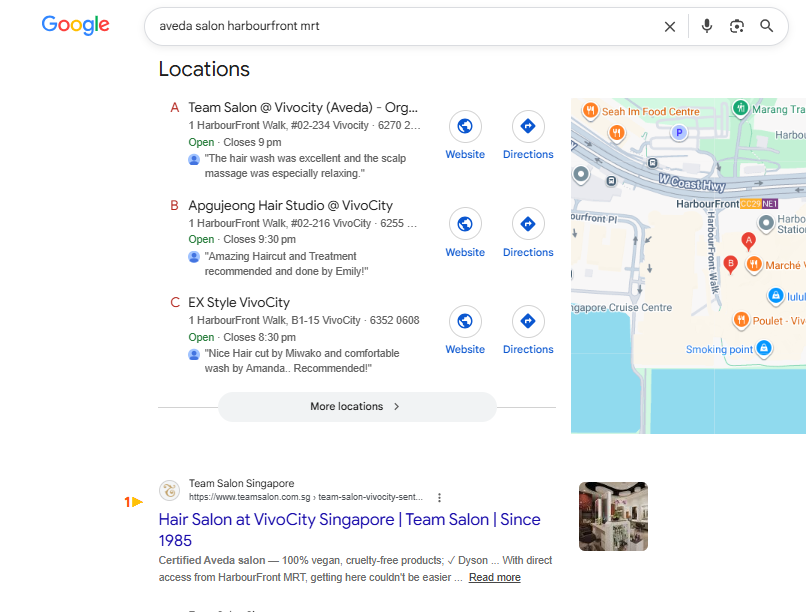
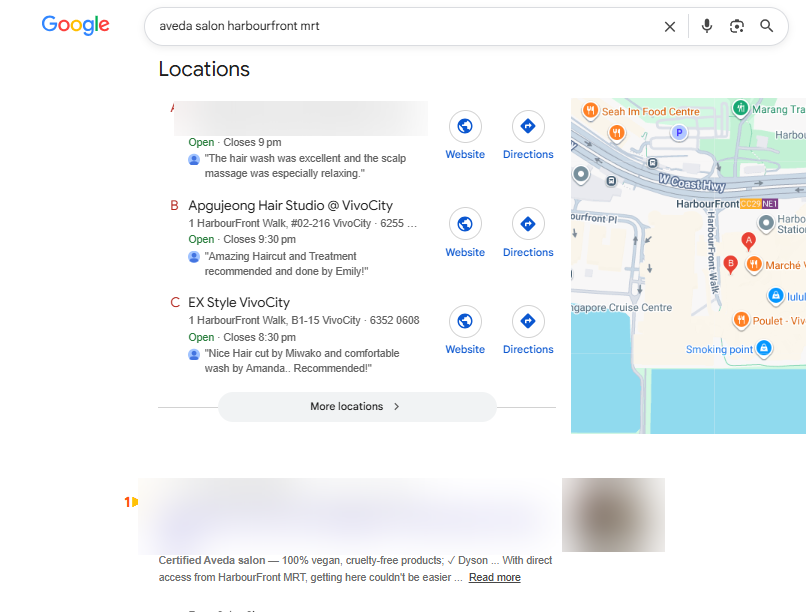
fix(case-studies): anonymize hair salon case study at client's request
Removes the business name and domain from all copy (FAQ answers, body
prose, at-a-glance table) and adds the standard "name withheld" disclosure
line, matching the aesthetic clinic case study precedent. Blurs the
business name, exact address, and phone number out of all 6 ranking
screenshots while keeping the keyword, rank position, and mall/outlet
context intact.

Changed region(s): [[0.1861, 0.7761, 0.8375, 0.9003], [0.2171, 0.1552, 0.5273, 0.2173]]

diff --git a/app/case-studies/hair-salon-seo-singapore/page.tsx b/app/case-studies/hair-salon-seo-singapore/page.tsx
@@ -38,19 +38,19 @@ const articleSchema = {
 const FAQS = [
   {
     q: "How long does SEO take for a hair salon in Singapore?",
-    a: "Team Salon's engagement began in May 2026, and the results above were measured across July and August — roughly three to four months in. In general, expect early Google Business Profile and long-tail movement within 6–10 weeks, and competitive service keywords to build over three to six months. Salons tend to see returns faster than most categories because local search intent converts quickly.",
+    a: "This salon's engagement began in May 2026, and the results above were measured across July and August — roughly three to four months in. In general, expect early Google Business Profile and long-tail movement within 6–10 weeks, and competitive service keywords to build over three to six months. Salons tend to see returns faster than most categories because local search intent converts quickly.",
   },
   {
     q: "Do I need SEO if my salon already gets bookings from Instagram?",
-    a: "They solve different problems. Social builds awareness among people who weren't looking for you. Search captures people who are actively looking right now and choosing between you and three competitors. For Team Salon, organic search drove 71.75% of all website users — a volume of active, high-intent demand that social was not reaching.",
+    a: "They solve different problems. Social builds awareness among people who weren't looking for you. Search captures people who are actively looking right now and choosing between you and three competitors. For this salon, organic search drove 71.75% of all website users — a volume of active, high-intent demand that social was not reaching.",
   },
   {
     q: "Can you manage more than one salon outlet?",
-    a: "Yes. Team Salon runs both outlets through a single Epicware dashboard, each with its own keyword strategy, Google Business Profile workflow, posting schedule and review pipeline. We currently manage 50+ outlet profiles across five markets.",
+    a: "Yes. This client runs both outlets through a single Epicware dashboard, each with its own keyword strategy, Google Business Profile workflow, posting schedule and review pipeline. We currently manage 50+ outlet profiles across five markets.",
   },
   {
     q: "Can you get my salon recommended by ChatGPT and AI Overviews?",
-    a: "It's a dedicated workstream, not an add-on. It requires AI-crawlable site architecture, correct structured data, content written the way language models extract answers, and consistent entity signals and brand mentions across the sources those models draw from. Team Salon's AI assistant traffic grew 320%, with engagement events from that channel up 633%.",
+    a: "It's a dedicated workstream, not an add-on. It requires AI-crawlable site architecture, correct structured data, content written the way language models extract answers, and consistent entity signals and brand mentions across the sources those models draw from. This client's AI assistant traffic grew 320%, with engagement events from that channel up 633%.",
   },
   {
     q: "Can negative Google reviews actually be removed?",
@@ -80,7 +80,7 @@ const HERO_STATS = [
 ];
 
 const AT_A_GLANCE: { label: string; value: string }[] = [
-  { label: "Client", value: "Team Salon — teamsalon.com.sg" },
+  { label: "Client", value: "Name withheld at client's request" },
   { label: "Industry", value: "Hair & Beauty — organic / Aveda salon" },
   { label: "Locations", value: "2 outlets — VivoCity and Jem" },
   { label: "Engagement", value: "May 2026 – ongoing" },
@@ -117,7 +117,7 @@ const KEYWORD_RANKINGS: { keyword: string; result: string; image: string; alt: s
     keyword: "aveda salon singapore",
     result: "#1 organic",
     image: "ranking-aveda-salon-singapore.png",
-    alt: "Google search results for 'aveda salon singapore' showing Team Salon ranking #1 organically",
+    alt: "Google search results for 'aveda salon singapore' showing the client's listing ranking #1 organically, business name blurred",
     w: 754,
     h: 493,
   },
@@ -125,7 +125,7 @@ const KEYWORD_RANKINGS: { keyword: string; result: string; image: string; alt: s
     keyword: "aveda salon harbourfront mrt",
     result: "#1 organic + #1 Local Map Pack",
     image: "ranking-aveda-salon-harbourfront-mrt.png",
-    alt: "Google local map pack and search results for 'aveda salon harbourfront mrt' showing Team Salon at VivoCity ranking #1",
+    alt: "Google local map pack and search results for 'aveda salon harbourfront mrt' showing the client's VivoCity outlet ranking #1, business name blurred",
     w: 806,
     h: 612,
   },
@@ -133,7 +133,7 @@ const KEYWORD_RANKINGS: { keyword: string; result: string; image: string; alt: s
     keyword: "vivocity hair salon",
     result: "#1 organic + #2 Local Map Pack",
     image: "ranking-vivocity-hair-salon.png",
-    alt: "Google local map pack and search results for 'vivocity hair salon' showing Team Salon in the map pack and ranking #1 organically",
+    alt: "Google local map pack and search results for 'vivocity hair salon' showing the client's listing in the map pack and ranking #1 organically, business name blurred",
     w: 1082,
     h: 646,
   },
@@ -141,7 +141,7 @@ const KEYWORD_RANKINGS: { keyword: string; result: string; image: string; alt: s
     keyword: "hair salon jurong east mrt",
     result: "#1 organic",
     image: "ranking-hair-salon-jurong-east-mrt.png",
-    alt: "Google search results for 'hair salon jurong east mrt' showing Team Salon ranking #1 organically",
+    alt: "Google search results for 'hair salon jurong east mrt' showing the client's listing ranking #1 organically, business name blurred",
     w: 762,
     h: 537,
   },
@@ -149,7 +149,7 @@ const KEYWORD_RANKINGS: { keyword: string; result: string; image: string; alt: s
     keyword: "hair salon jem singapore",
     result: "#2 and #3 organic",
     image: "ranking-hair-salon-jem-singapore.png",
-    alt: "Google search results for 'hair salon jem singapore' showing Team Salon Jem ranking in the top organic positions",
+    alt: "Google search results for 'hair salon jem singapore' showing the client's Jem outlet ranking in the top organic positions, business name blurred",
     w: 840,
     h: 634,
   },
@@ -157,7 +157,7 @@ const KEYWORD_RANKINGS: { keyword: string; result: string; image: string; alt: s
     keyword: "hair salon price list",
     result: "#4 organic",
     image: "ranking-hair-salon-price-list.png",
-    alt: "Google search results for 'hair salon price list' showing Team Salon Singapore ranking #4 organically",
+    alt: "Google search results for 'hair salon price list' showing the client's listing ranking #4 organically, business name blurred",
     w: 732,
     h: 522,
   },
@@ -179,7 +179,7 @@ const WHY_IT_WORKED = [
   },
   {
     title: "We competed where we could win.",
-    body: "Organic colour, Aveda treatments and mall-catchment intent instead of “hair salon Singapore.” Lower search volume, far higher intent, and a searcher who has already chosen the category Team Salon leads in.",
+    body: "Organic colour, Aveda treatments and mall-catchment intent instead of “hair salon Singapore.” Lower search volume, far higher intent, and a searcher who has already chosen the category this salon leads in.",
   },
   {
     title: "We separated the two outlets from day one.",
@@ -343,6 +343,9 @@ export default function HairSalonCaseStudyPage() {
               </div>
             ))}
           </dl>
+          <p className="text-xs text-muted-foreground italic mt-4">
+            The salon&rsquo;s name is withheld at its request. Outlets, timeline and results are reported as-is.
+          </p>
         </div>
       </section>
 
@@ -369,7 +372,7 @@ export default function HairSalonCaseStudyPage() {
               the next result.
             </p>
             <p className="text-muted-foreground text-[17px] leading-relaxed">
-              Team Salon had the harder half of that equation solved already. Two outlets in prime mall locations,
+              This salon had the harder half of that equation solved already. Two outlets in prime mall locations,
               an Aveda partnership, a genuine organic positioning, and a base of loyal clients. What it didn&rsquo;t
               have was visibility at the point of decision.
             </p>
@@ -436,8 +439,8 @@ export default function HairSalonCaseStudyPage() {
               <div>
                 <h3 className="font-display font-bold text-foreground text-lg mb-2">Built a differentiated keyword strategy</h3>
                 <p className="text-[15px] leading-relaxed text-foreground/90">
-                  Rather than fighting for generic head terms, we built the strategy around what actually makes Team
-                  Salon different: organic and ammonia-free colour, Aveda treatments, specific hair concerns, and
+                  Rather than fighting for generic head terms, we built the strategy around what actually makes this
+                  salon different: organic and ammonia-free colour, Aveda treatments, specific hair concerns, and
                   hyper-local mall-catchment intent. Lower competition, dramatically higher purchase intent, and a
                   searcher who has already self-selected for a premium organic salon. Each outlet was then given its
                   own keyword identity and local landing structure, so VivoCity and Jem stopped cannibalising each
@@ -551,7 +554,7 @@ export default function HairSalonCaseStudyPage() {
             <p className="text-[15px] leading-relaxed text-foreground/90 mb-8">
               Look at what these rankings have in common: they&rsquo;re the searches a customer makes when
               they&rsquo;re already close to booking. Someone searching &ldquo;aveda salon harbourfront mrt&rdquo;
-              isn&rsquo;t browsing — they&rsquo;re standing at an MRT station deciding where to walk. Team Salon now
+              isn&rsquo;t browsing — they&rsquo;re standing at an MRT station deciding where to walk. This salon now
               owns both the organic result and the Map Pack for that search. Both outlets hold first-position
               organic rankings in their own catchment, and &ldquo;aveda salon singapore&rdquo; at #1 isn&rsquo;t a
               local search — that&rsquo;s the whole island.
@@ -643,7 +646,7 @@ export default function HairSalonCaseStudyPage() {
             </div>
             <p className="text-[15px] leading-relaxed text-foreground/90">
               Organic search now accounts for <strong className="text-foreground">71.75% of all website users</strong>{" "}
-              — Team Salon&rsquo;s single largest acquisition channel by a wide margin, and the one with the lowest
+              — this salon&rsquo;s single largest acquisition channel by a wide margin, and the one with the lowest
               cost per visitor of anything in the mix.
             </p>
           </div>
@@ -777,7 +780,7 @@ export default function HairSalonCaseStudyPage() {
           </div>
 
           <p className="text-[15px] leading-relaxed text-foreground/90 mb-4">
-            That chain is visible in the data. Impressions up 181% put Team Salon in front of a far wider set of
+            That chain is visible in the data. Impressions up 181% put this salon in front of a far wider set of
             searchers. Clicks up 209% turned that exposure into visits. Engagement events up 500% show those
             visitors moving through the site rather than bouncing. And returning users up 306% alongside direct
             traffic up 406% show the same people coming back — the behaviour that precedes a booking in a considered
